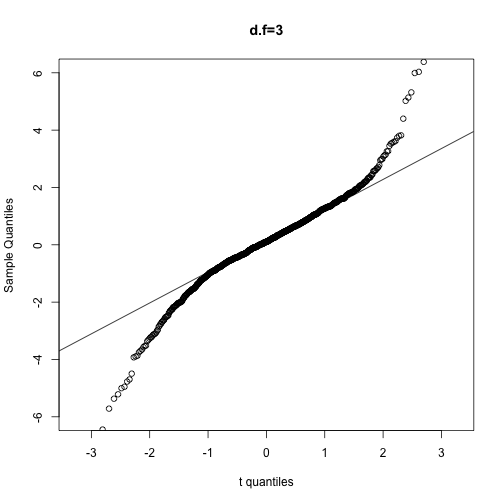
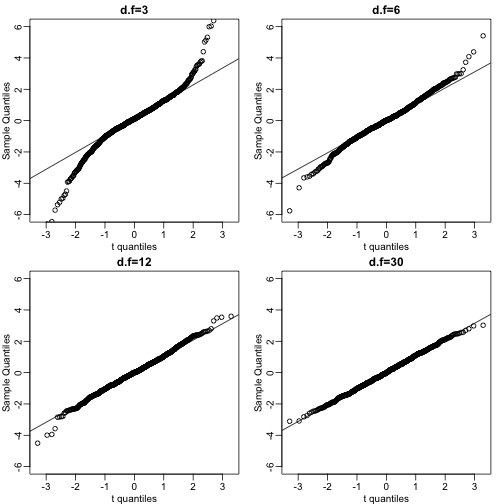
adding exploratory_data_analysis_2 to book

diff --git a/manuscript/exploratory_data_analysis_2.md b/manuscript/exploratory_data_analysis_2.md
@@ -1,74 +1,52 @@
 --- 
 title: "Exploratory Data Analysis 2" 
-output: pdf_document 
+output: html_document 
 layout: page 
 --- 
 
 
 
 
-# Data Visualization 
+# Exploratory Data Analysis 
 
 Biases, systematic errors and unexpected variability are common in data from the life sciences. Failure to discover these problems often leads to flawed analyses and false discoveries. As an example, consider that experiments sometimes fail and not all data processing pipelines, such as the t.test function in R, are designed to detect these. Yet, these pipelines still give you an answer. Furthermore, it may be hard or impossible to notice an error was made just from the reported results. 
 
-Graphing data is a powerful approach to detecting these problems. We refer to this as _exploratory data analyis_ (EDA). Many important methodological contributions to existing data analysis techniques in data analysis were initiated by discoveries made via EDA. Through this book we make use of exploratory plots to motivate the analyses we choose. Here we present a general introduction to EDA using height data. 
+Summarizing and, especially, visualizing data are powerful approaches to detecting these problems. We refer to this as _exploratory data analyis_ (EDA). Many important methodological contributions to existing data analysis techniques in data analysis were initiated by discoveries made via EDA. Through this book we make use of exploratory plots to motivate the analyses we choose. Here we present a general introduction to EDA using height data. 
 
 We have already introduce some EDA approaches for _univariate_ data. Namely the histograms. Here we describe the qq-plot in more detail ans how some EDA and summary statistics for paired data. We also give a demonstration of commonly used figures that we recommend against. 
 
 
-### Quantile Quantile Plots 
+## Quantile Quantile Plots 
 
-To corroborate that the normal distribution is in fact a good approximation we can use quantile-quantile plots (QQ-plots). Quantiles are best understood by considering the special case of percentiles. The p-th percentile of a list of a distribution is defined as the number q that is bigger than p% of numbers. For example, the median 50-th percentile is the median. We can compute the percentiles for our list and for the normal distribution 
+To corroborate that the normal distribution is in fact a good approximation we can use quantile-quantile plots (QQ-plots). Quantiles are best understood by considering the special case of percentiles. The p-th percentile of a list of a distribution is defined as the number q that is bigger than p% of numbers. For example, the median 50-th percentile is the median. We can compute the percentiles for our list of heights 
+
+
+
+```r 
+library(UsingR) 
+x=father.son$fheight 
+``` 
+
+and for the normal distribution 
+
 
 ```r 
 ps <- seq(0.01,0.99,0.01) 
 qs <- quantile(x,ps) 
-``` 
-
-``` 
-## Error in quantile(x, ps): object 'x' not found 
-``` 
-
-```r 
 normalqs <- qnorm(ps,mean(x),popsd(x)) 
-``` 
-
-``` 
-## Error in mean(x): object 'x' not found 
-``` 
-
-```r 
 plot(normalqs,qs,xlab="Normal percentiles",ylab="Height percentiles") 
-``` 
-
-``` 
-## Error in plot(normalqs, qs, xlab = "Normal percentiles", ylab = "Height percentiles"): object 'normalqs' not found 
-``` 
-
-```r 
 abline(0,1) ##identity line 
 ``` 
 
-``` 
-## Error in int_abline(a = a, b = b, h = h, v = v, untf = untf, ...): plot.new has not been called yet 
-``` 
+![plot of chunk unnamed-chunk-2](images/exploratory_data_analysis_2-unnamed-chunk-2-1.png) 
 Note how close these values are. Also note that we can see these qqplots with less code 
 
 ```r 
 qqnorm(x) 
-``` 
-
-``` 
-## Error in qqnorm(x): object 'x' not found 
-``` 
-
-```r 
 qqline(x) 
 ``` 
 
-``` 
-## Error in quantile(y, probs, names = FALSE, type = qtype, na.rm = TRUE): object 'x' not found 
-``` 
+![plot of chunk unnamed-chunk-3](images/exploratory_data_analysis_2-unnamed-chunk-3-1.png) 
 However, the `qqnorm` function plots against a standard normal distribution. This is why the line has slope `popsd(x)` and intercept `mean(x)` 
 
 In the example above the points match the line very well. In fact we can run Monte Carlo simulations to see that we see plots like this for data known to be normally distributed 
@@ -89,14 +67,7 @@ We can also get a sense for how non-normally distributed data looks. Here we gen
 
 ```r 
 dfs <- c(3,6,12,30) 
-mypar2(2,2) 
-``` 
-
-``` 
-## Error in eval(expr, envir, enclos): could not find function "mypar2" 
-``` 
-
-```r 
+mypar(2,2) 
 for(df in dfs){ 
 x <- rt(1000,df) 
 qqnorm(x,xlab="t quantiles",main=paste0("d.f=",df),ylim=c(-6,6)) 
@@ -104,11 +75,11 @@ qqline(x)
 } 
 ``` 
 
-![plot of chunk unnamed-chunk-5](images/exploratory_data_analysis_2-unnamed-chunk-5-1.png) ![plot of chunk unnamed-chunk-5](images/exploratory_data_analysis_2-unnamed-chunk-5-2.png) ![plot of chunk unnamed-chunk-5](images/exploratory_data_analysis_2-unnamed-chunk-5-3.png) ![plot of chunk unnamed-chunk-5](images/exploratory_data_analysis_2-unnamed-chunk-5-4.png) 
+![plot of chunk unnamed-chunk-5](images/exploratory_data_analysis_2-unnamed-chunk-5-1.png) 
 
 <a name="scatterplots"></a> 
 
-### Scatterplots and correlation 
+## Scatterplots and correlation 
 
 The methods described above relate to _univariate_ variables. In the biomedical sciences it is common to be interested in the relationship between two or more variables. A classic examples is the father/son height data used by Galton to understand heredity. Were we to summarize these data we could use the two averages and two standard deviations as both distributions are well approximated by the normal distribution. This summary, however, fails to describe an important characteristic of the data. 
 
@@ -116,38 +87,6 @@ The methods described above relate to _univariate_ variables. In the biomedical 
 ```r 
 # install.packages("UsingR") 
 library(UsingR) 
-``` 
-
-``` 
-## Loading required package: MASS 
-## Loading required package: HistData 
-## Loading required package: Hmisc 
-## Loading required package: methods 
-## Loading required package: grid 
-## Loading required package: lattice 
-## Loading required package: survival 
-## Loading required package: Formula 
-## Loading required package: ggplot2 
-## 
-## Attaching package: 'Hmisc' 
-## 
-## The following objects are masked from 'package:base': 
-## 
-## format.pval, round.POSIXt, trunc.POSIXt, units 
-## 
-## 
-## Attaching package: 'UsingR' 
-## 
-## The following object is masked from 'package:ggplot2': 
-## 
-## movies 
-## 
-## The following object is masked from 'package:survival': 
-## 
-## cancer 
-``` 
-
-```r 
 data("father.son") 
 x=father.son$fheight 
 y=father.son$sheight 
@@ -158,7 +97,7 @@ plot(x,y,xlab="Father's height in inches",ylab="Son's height in inches",main=pas
 
 The scatter plot shows a general trend: the taller the father the taller to son. A summary of this trend is the correlation coefficient which in this cases is 0.5. We motivate this statistic by trying to predict son's height using the father's. 
 
-### Stratification 
+## Stratification 
 
 Suppose we are asked to guess the height of randomly select sons. The average height, 68.7 inches, is the value with the highest proportion (see histogram) and would be our prediction. But what if we are told that the father is 72 inches tall, do we sill guess 68.7? 
 
@@ -180,7 +119,7 @@ print(mean(y[ round(x) == 72]))
 ``` 
 Stratification followed by boxplots lets us see the distribution of each group. The average height of sons with fathers that are 72 is 70.7. We also see that the means of the strata appear to follow a straight line. This line is refereed to the regression line and it's slope is related to the correlation. 
 
-### Bi-variate normal distribution 
+## Bi-variate normal distribution 
 
 A pair of random variable {$$}(X,y) {/$$}is considered to be approximated by bivariate normal when the proportion of values below, say {$$}x {/$$}and {$$}y {/$$}is approximated by this expression: 
 
@@ -200,14 +139,7 @@ A definition that is more intuitive is the following. Fix a value {$$}x {/$$}and
 
 ```r 
 groups <- split(y,round(x)) 
-mypar2(2,2) 
-``` 
-
-``` 
-## Error in eval(expr, envir, enclos): could not find function "mypar2" 
-``` 
-
-```r 
+mypar(2,2) 
 for(i in c(5,8,11,14)){ 
 qqnorm(groups[[i]],main=paste0("X=",names(groups)[i]," strata"), 
 ylim=range(y),xlim=c(-2.5,2.5)) 
@@ -215,7 +147,7 @@ qqline(groups[[i]])
 } 
 ``` 
 
-![plot of chunk unnamed-chunk-8](images/exploratory_data_analysis_2-unnamed-chunk-8-1.png) ![plot of chunk unnamed-chunk-8](images/exploratory_data_analysis_2-unnamed-chunk-8-2.png) ![plot of chunk unnamed-chunk-8](images/exploratory_data_analysis_2-unnamed-chunk-8-3.png) ![plot of chunk unnamed-chunk-8](images/exploratory_data_analysis_2-unnamed-chunk-8-4.png) 
+![plot of chunk unnamed-chunk-8](images/exploratory_data_analysis_2-unnamed-chunk-8-1.png) 
 
 
 Now we come back to defining correlation. Mathematical statistics tells us that when two variables follow a bivariate normal distribution then for any given value of {$$}x {/$$}the average of the {$$}Y {/$$}in pairs for which {$$}X=x {/$$}is 
@@ -243,21 +175,14 @@ x=(x-mean(x))/sd(x)
 y=(y-mean(y))/sd(y) 
 means=tapply(y,round(x*4)/4,mean) 
 fatherheights=as.numeric(names(means)) 
-mypar2(1,1) 
-``` 
-
-``` 
-## Error in eval(expr, envir, enclos): could not find function "mypar2" 
-``` 
-
-```r 
+mypar(1,1) 
 plot(fatherheights,means,ylab="average of strata of son heights",ylim=range(fatherheights)) 
 abline(0,cor(x,y)) 
 ``` 
 
 ![plot of chunk unnamed-chunk-9](images/exploratory_data_analysis_2-unnamed-chunk-9-1.png) 
 
-### Spearman's correlation 
+## Spearman's correlation 
 
 Just like the average and standard deviation are not good summaries when the data is not well approximated by the normal distribution, the correlation is not a good summary when pairs of lists are not approximated by the bivariate normal distribution. Examples include cases in which on variable is related to another by a parabolic function. Another, more common example are caused by outliers or extreme values. 
 
@@ -272,4 +197,40 @@ plot(a,b,main=paste("correlation =",signif(cor(a,b),2)))
 In the example above the data are not associated but for one pair both values are very large. The correlation here is about 0.5. This is driven by just that one point as taking it out lowers to correlation to about 0. An alternative summary for cases with outliers or extreme values is Spearman's correlation which is based on ranks instead of the values themselves. 
 
 
-### Misunderstanding Correlation 
+## Misunderstanding Correlation 
+
+The use of correlation to summarize reproducibility has become widespread in, for example, genomics. Despite its English language definition, mathematically, correlation is not necessarily informative with regards to reproducibility. Here we briefly describe three major problems. 
+
+The most egregious related mistake is to compute correlations of data that is not approximated by bi-variate normal data. As described above averages, standard deviations and correlations are popular summary statistics for two-dimensional data because for the bivariate normal distribution these five parameters fully describe the distribution. However, there are many examples of data that are not well approximated by bivariate normal data. 
+
+The standard way to quantify reproducibility between two sets of replicated measurement, say {$$}x_1,\odts,x_n {/$$}and {$$}y_1,\dot,y_n {/$$}, is simply to compute the distance between them: 
+
+{$$}
+\sqrt{ 
+\sum_{i=1}^n d_i^2 \mbox{ with } d_i=x_i - y_i 
+} 
+{/$$}
+
+Note that this metric decreases as reproducibility improves and it is 0 when the reproducibility is perfect. Another advantage of this metric is that if we divide the sum by N, we can interpret the resulting quantity as the standard deviation of the {$$}d_1,\dots,d_N {/$$}if we assume the {$$}d {/$$}average out to 0. Furthermore, this quantity will have the same units as our measurements resulting in a more interpretable metric. Another limitation of the correlation is that it does not detect cases that are not reproducible due to average changes. The distance metric does detect these differences. Notet that we can rewrite 
+
+{$$}\frac{1}{n} \sum_{i=1}^n (x_i - y_i)^2 = \frac{1}{n} \sum_{i=1}^n [(x_i-\mu_x) - (y_i - \mu_y)^2 + (\mu_x-\mu_y)]^2 {/$$}
+
+with {$$}\mu_x {/$$}and {$$}\mu_y {/$$}the average of each list. Then we have 
+
+{$$}\frac{1}{n} \sum_{i=1}^n (x_i - y_i)^2 = \frac{1}{n} \sum_{i=1}^n (x_i-\mu_x)^2 + \frac{1}{n} \sum_{i=1}^n (y_i - \mu_y)^2 + (\mu_x-\mu_y)^2 + \frac{1}{n}\sum_{i=1}^n (x_i-\mu_x)(y_i - \mu_y) 
+{/$$}
+
+For simplicity, if we assume that the variance of both lists is 1 then this reduces to 
+
+{$$}\frac{1}{n} \sum_{i=1}^n (x_i - y_i)^2 = 2 + (\mu_x-\mu_y)^2 - 2\rho {/$$}
+
+with {$$}\rho {/$$}the correlation. So we see the direct relationship between distance and correlation. However, an important difference is that the distance contains the term {$$}(\mu_x-\mu_y)^2 {/$$}thus can detect cases that are not reproducible due to large average changes. 
+
+Yet another reason correlation is not an optimal metric for reproducibility is the lack of units. To see this we use a formula the relates the correlation of a variable with the correlation of that variable plus what is interpreted here as deviation:$x {$$}and {/$$}y=x+d {$$}. The larger the variance of {/$$}d {$$}the less {/$$}x+d {$$}reproduces {/$$}x {$$}. Here the distance metric would depend only on the variance of {/$$}d {$$}and would summarize reproducibitly. However, correlation depends on the variance of {/$$}x {$$}as well: 
+
+{/$$}
+cor(x,x+d) = \frac{1}{\sqrt{1+\mbox{var}(d)/\mbox{var}(x)}} 
+{$$}
+
+Note that this implies that correlations near 1 do not necessarily imply reproducibility. Specifically, irrespective of the variance of {/$$}d {$$}, we can make the correlation arbitrarily close to 1 by increasing the variance of {/$$}x {$$}. 
+
